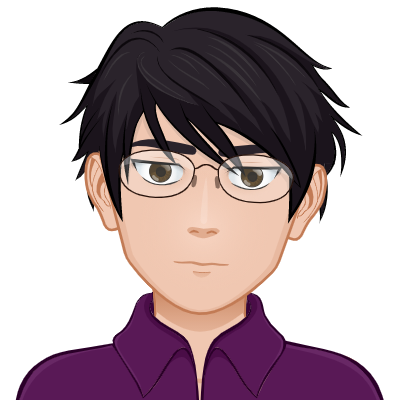
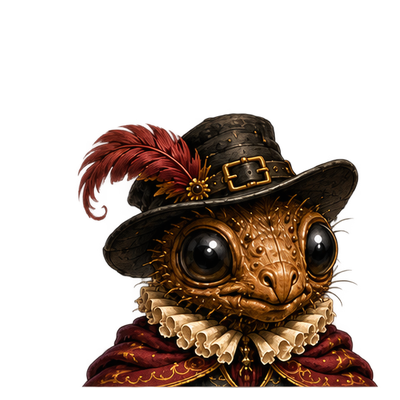
Use flea narrator illustration and dialogue expressions
Replace the narrator placeholder with the supplied flea character, add eight transparent expression portraits, and preserve the original table illustration. Document native Ren'Py dialogue attributes and the asset preparation prompt.

diff --git a/devdocs/NARRATOR_STANDARD.md b/devdocs/NARRATOR_STANDARD.md
@@ -1,6 +1,6 @@
 # Narrator Standard
 
-Tractir now has a FamilyLife-style narrator in `game/Inn/NarratorRuntime.rpy`.
+The flea narrator is defined in `game/Utilities/General/Common/NarratorRuntime.rpy`.
 
 Use it in story labels when the text is scene description, MC observation, or connective narration:
 
@@ -14,6 +14,62 @@ For Python-built events, use the same narrator through:
 $ tractir_narrate("The hallway is quiet enough that every floorboard sounds guilty.")
 ```
 
-The narrator uses `images/general/narrator.png` as a side image. Existing unnamed narration is not overwritten, so old labels stay visually stable until they are intentionally rewritten to use `n`.
+The default side image, `images/general/narrator.png`, is the neutral flea portrait.
+The eight expression sprites in `images/narrator/side/` are transparent 400×400 PNGs,
+using the same portrait size and the existing `zoom=0.72` presentation.
+
+## Expressions
+
+Use native Ren'Py image attributes to select an expression:
+
+```renpy
+n neutral "Начнём нашу историю."
+n mischievous "У этой истории есть любопытная подробность."
+n surprised "Вот это поворот!"
+n defiant "Попробуй меня переубедить."
+n thoughtful "Здесь стоит присмотреться к деталям."
+n delighted "Отличные новости!"
+n suspicious "Что-то здесь не сходится."
+n whispering "Только между нами..."
+n neutral "Продолжим."
+```
+
+An expression stays selected until another is requested. Use `n neutral` to
+return to the neutral portrait. Python-driven narration uses the same native
+attributes and the existing helper:
+
+```renpy
+$ renpy.set_tag_attributes("tractir_narrator thoughtful")
+$ tractir_narrate("Здесь стоит присмотреться к деталям.")
+$ renpy.set_tag_attributes("tractir_narrator neutral")
+```
+
+`call narrator_test` previews all eight expressions and returns with neutral selected.
+Existing unnamed narration keeps its existing presentation until intentionally
+rewritten to use `n`.
+
+## Full illustration
+
+`images/narrator/flea_table.png` is the supplied candlelit table illustration,
+copied without redrawing or changing its pixels. It is registered as
+`flea_narrator_table` and fits inside the current screen while preserving its
+aspect ratio:
+
+```renpy
+scene flea_narrator_table
+n neutral "Откроем книгу и начнём рассказ."
+```
+
+The illustration is shown only when an authored scene requests it. Narrator
+dialogue selects a side portrait through the existing `SideImage()` display.
+
+## Art source
+
+The user supplied the flea expression sheet and table illustration on
+20 October 2026. The portraits preserve the golden-brown chitin, glossy black
+eyes, buckled black hat, red feather, ivory ruff, and burgundy-and-gold cloak.
+The built-in image-generation tool extracted the expression atlas; its prompt
+and the export details are recorded in
+[art/narrator/ASSET_PROMPT.txt](art/narrator/ASSET_PROMPT.txt).
 
 The external pure-Python logic test script also verifies that the narrator character, helper function, and side image are present.
